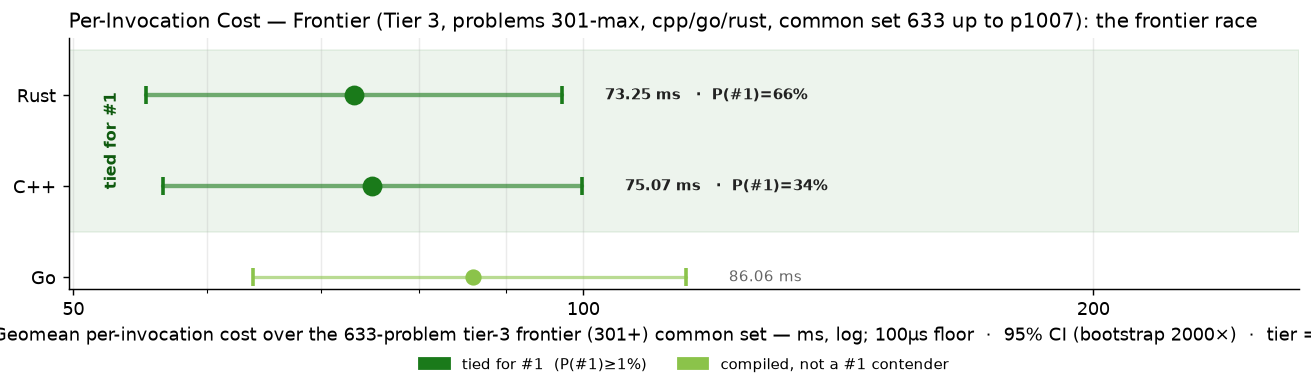
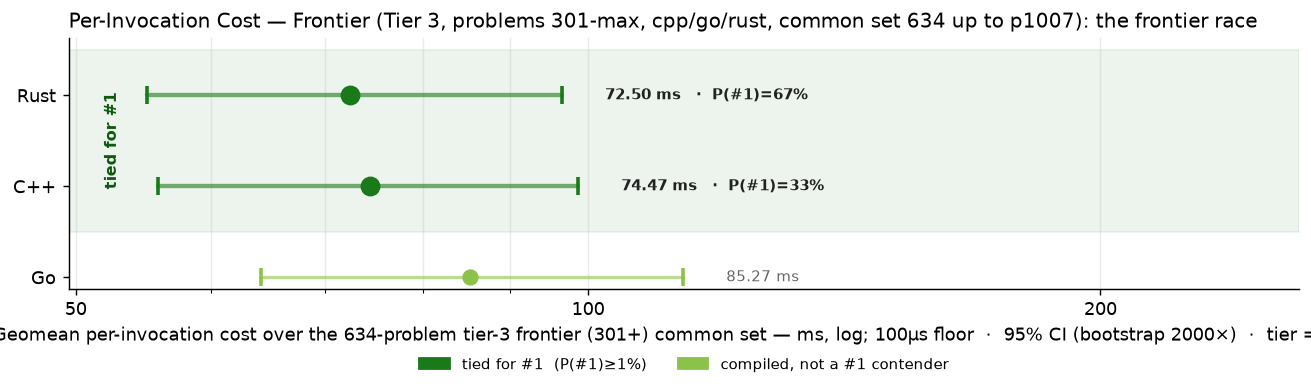
cpp p0723

diff --git a/RESULTS.md b/RESULTS.md
@@ -1,6 +1,6 @@
 # Project Euler — Cross-Language Benchmarks
 
-> **Scope: 4521 in-scope cells across 1007 problems × tiered languages — 4373 measured (96.7% coverage).**
+> **Scope: 4521 in-scope cells across 1007 problems × tiered languages — 4374 measured (96.7% coverage).**
 > The cross-language ranking below is computed over the **200-problem common set** (problems in 1-200 where every language has a passing measurement) — the apples-to-apples Foundation comparison surface.  Per-tier rankings and coverage detail appear further below.
 > Growing carefully — each new problem and language is audited for state-leak
 > safety, verified for answer correctness, and added only when it cleanly fits the
@@ -70,15 +70,15 @@ Same scatter as the Foundation chart, restricted to the tier-2 active languages 
 
 The frontier verification trio — C++, Go, Rust — on problems above 300. 3-way cross-language agreement is the verification protocol (strictly stronger than 2-way; see JOURNEY.md "Tier Reframing" episode for the p254 lesson that motivated it). Python and Zig are explicitly out of this tier — python's wall cost makes it impractical at level 5+, and zig's role caps at Tier 2.
 
-### Per-Invocation Cost (Common Set, 633 of ≤707 problems in scope)
+### Per-Invocation Cost (Common Set, 634 of ≤707 problems in scope)
 
 ![Per-Invocation Cost — Tier 3](charts/per_iter_total_tier3.png)
 
-| Rank | Language | Geomean (633-problem common set) | Total (sum) | Lines of code | vs Fastest |
+| Rank | Language | Geomean (634-problem common set) | Total (sum) | Lines of code | vs Fastest |
 |------|----------|--------------------:|------------:|--------------:|-----------:|
-| 1 | **Rust** | 73.25 ms | 1718.61 s | 124,545 | 1.00× |
-| 2 | **C++** | 75.07 ms | 1850.22 s | 91,714 | 1.02× |
-| 3 | **Go** | 86.06 ms | 2105.55 s | 116,196 | 1.17× |
+| 1 | **Rust** | 72.50 ms | 1718.61 s | 124,990 | 1.00× |
+| 2 | **C++** | 74.47 ms | 1850.22 s | 91,831 | 1.03× |
+| 3 | **Go** | 85.27 ms | 2105.55 s | 116,429 | 1.18× |
 
 ### Speed vs Code Size
 
@@ -264,7 +264,7 @@ table never silently mixes versions (METHODOLOGY.md §4).  Current state of the
 |----------|-----------|------:|---------------|
 | **ARM64** | `Apple clang version 21.0.0 (clang-2100.1.1.101)` | 200 | 2026-07-30 |
 | **C** | `Apple clang version 21.0.0 (clang-2100.1.1.101)` | 200 | 2026-07-30 |
-| **C++** | `Apple clang version 21.0.0 (clang-2100.1.1.101)` | 935 | 2026-09-04 |
+| **C++** | `Apple clang version 21.0.0 (clang-2100.1.1.101)` | 936 | 2026-09-04 |
 | **C#** | `10.0.101` | 200 | 2026-07-30 |
 | **Go** | `go version go1.26.5 darwin/arm64` | 936 | 2026-09-04 |
 | **Java** | `openjdk version "21.0.2" 2024-01-16 LTS` | 200 | 2026-07-30 |

diff --git a/per_problem/per_problem_0701-0800.md b/per_problem/per_problem_0701-0800.md
@@ -30,7 +30,7 @@ in tier-1 display order (native → managed → interpreted).
 | **p0720** | 2.36 s | 2.50 s | 3.27 s |
 | **p0721** | 6.70 s | 1.78 s | 6.24 s |
 | **p0722** | 10.87 s | 10.75 ms | 1.51 ms |
-| **p0723** | — | 92.3 µs | 243.5 µs |
+| **p0723** | 465.9 µs | 92.3 µs | 243.5 µs |
 | **p0724** | 95.89 ms | 95.58 ms | 125.73 ms |
 | **p0725** | 13.89 ms | 6.64 ms | 9.29 ms |
 | **p0726** | 799.97 ms | 158.57 ms | 208.50 ms |
